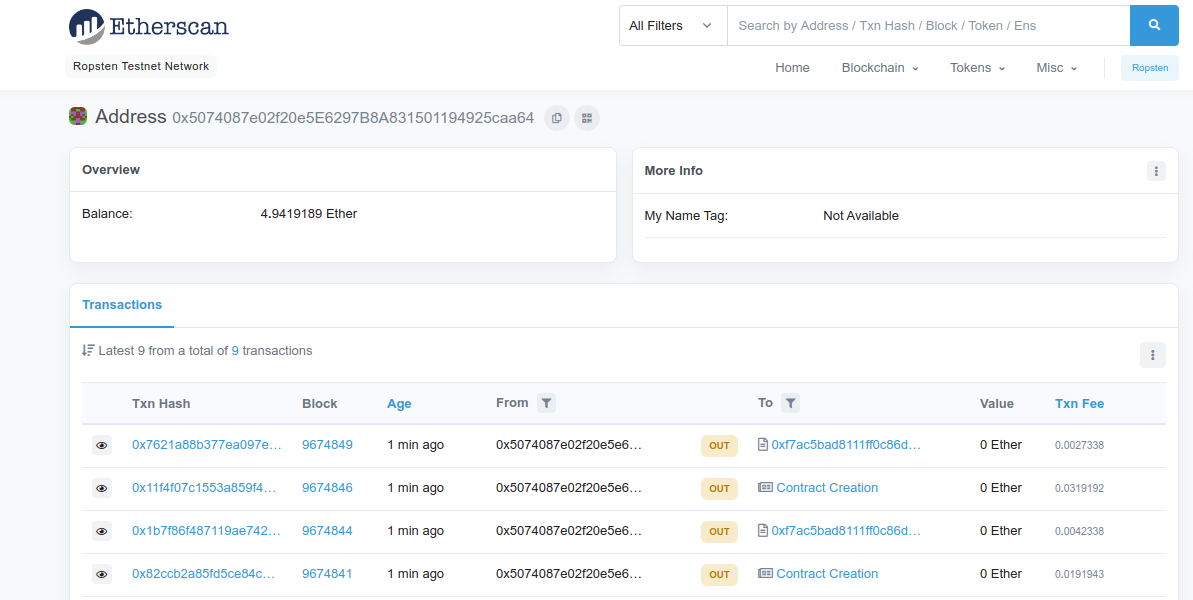
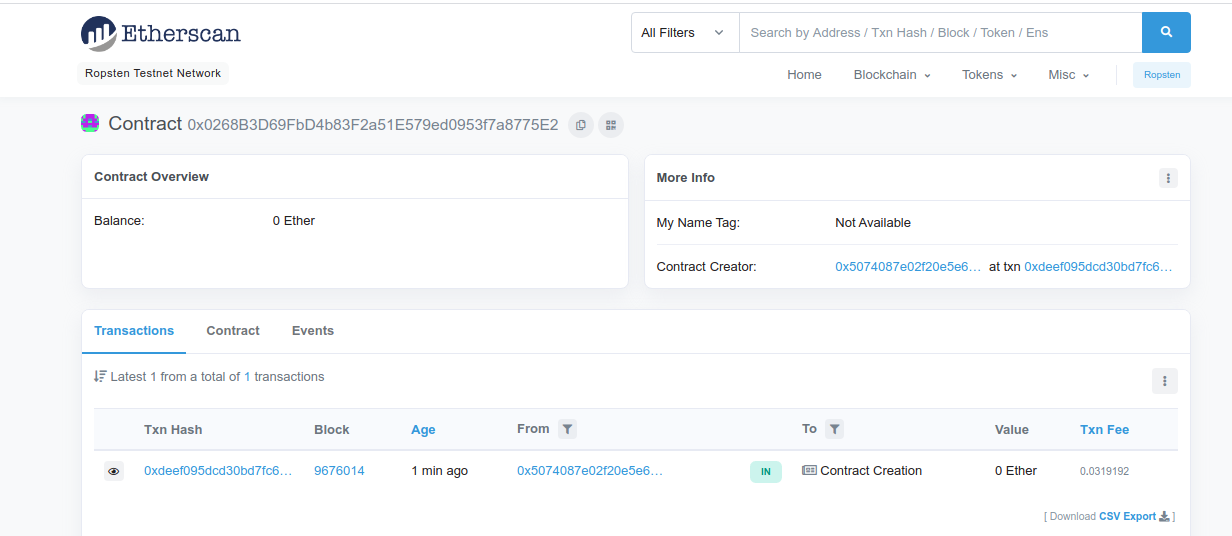
deploy contract on infuria

diff --git a/truffle-config.js b/truffle-config.js
@@ -1,7 +1,7 @@
 const HDWalletProvider = require("@truffle/hdwallet-provider");
 const fs = require('fs')
 const mnemonic = fs.readFileSync('.secret').toString().trim()
-const infuraProjectId = 'cdebbef6def6471fa589c3cbab0fefd3'
+const infuraProjectId = 'e30562b89a9c417b9245fe550b99d7d2'
 
 module.exports = {
   networks: {

diff --git a/README.md b/README.md
@@ -115,7 +115,7 @@ in the verifying window
  `truffle run ropsten or yarn run ropsten`
 
 ![Alt text](./diagrams/etherscan.png?raw=true "gas cost")
-- link: https://ropsten.etherscan.io/address/0x5074087e02f20e5e6297b8a831501194925caa64
+- link: https://ropsten.etherscan.io/address/0x0268B3D69FbD4b83F2a51E579ed0953f7a8775E2
 
 
 ### Contract Graph
